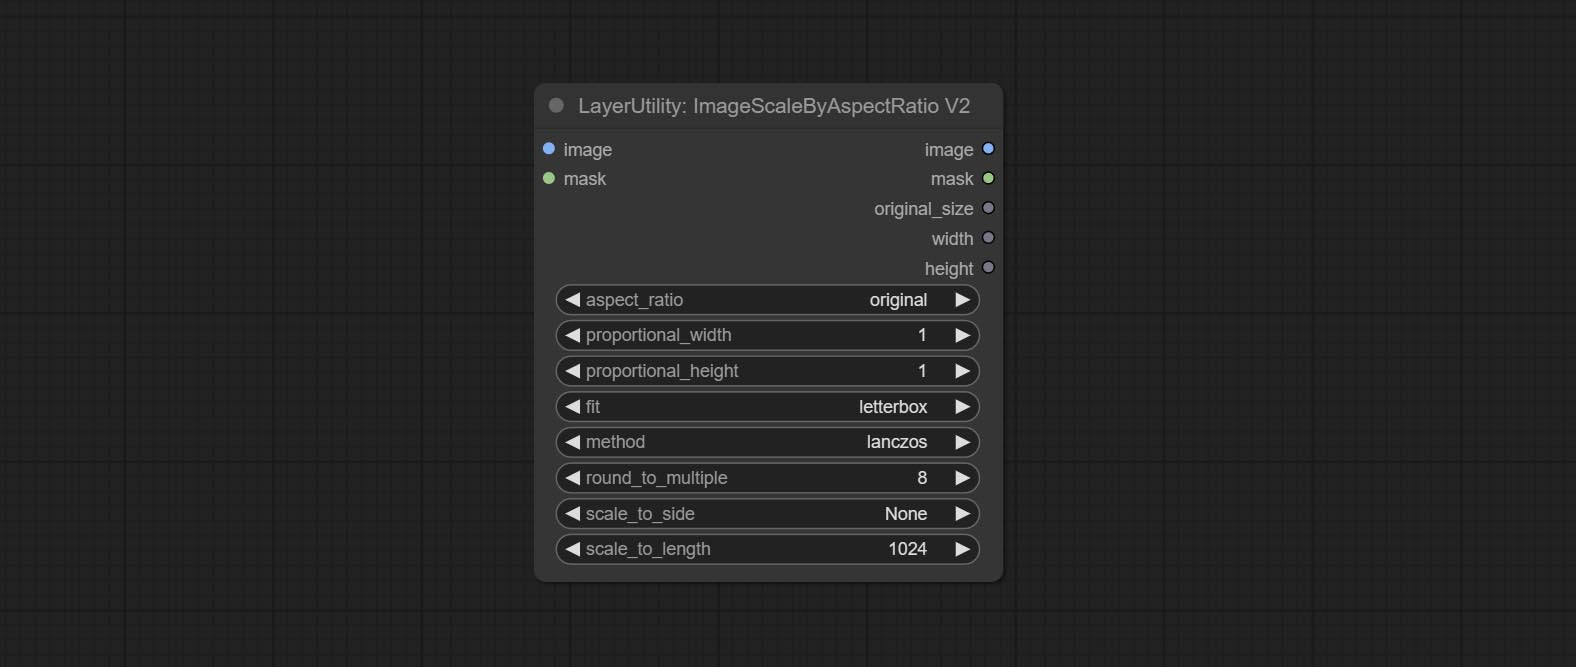
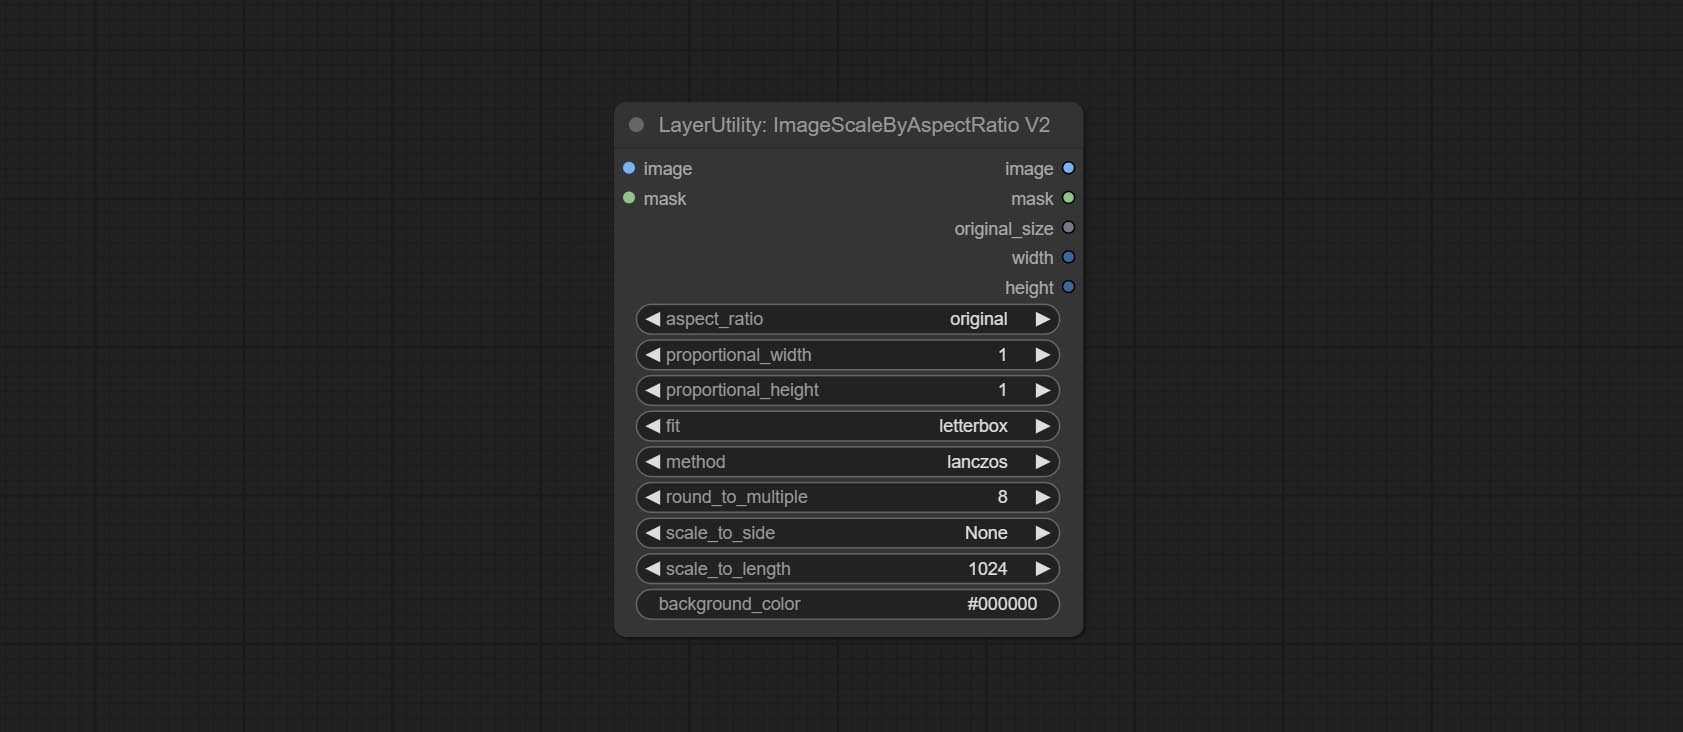
ImageScaleByAspectRatioV2 node add background_color option

Changed region(s): [[0.342, 0.2099, 0.6529, 0.8396], [0.342, 0.1499, 0.6218, 0.1799], [0.342, 0.2099, 0.4042, 0.2999]]

diff --git a/py/image_scale_by_aspect_ratio_v2.py b/py/image_scale_by_aspect_ratio_v2.py
@@ -14,7 +14,7 @@ class ImageScaleByAspectRatioV2:
         ratio_list = ['original', 'custom', '1:1', '3:2', '4:3', '16:9', '2:3', '3:4', '9:16']
         fit_mode = ['letterbox', 'crop', 'fill']
         method_mode = ['lanczos', 'bicubic', 'hamming', 'bilinear', 'box', 'nearest']
-        multiple_list = ['8', '16', '32', '64', 'None']
+        multiple_list = ['8', '16', '32', '64', '128', '256', '512', 'None']
         scale_to_list = ['None', 'longest', 'shortest', 'width', 'height', 'total_pixel(kilo pixel)']
         return {
             "required": {
@@ -26,6 +26,7 @@ class ImageScaleByAspectRatioV2:
                 "round_to_multiple": (multiple_list,),
                 "scale_to_side": (scale_to_list,),  # 是否按长边缩放
                 "scale_to_length": ("INT", {"default": 1024, "min": 4, "max": 999999, "step": 1}),
+                "background_color": ("STRING", {"default": "#000000"}),  # 背景颜色
             },
             "optional": {
                 "image": ("IMAGE",),  #
@@ -40,6 +41,7 @@ class ImageScaleByAspectRatioV2:
 
     def image_scale_by_aspect_ratio(self, aspect_ratio, proportional_width, proportional_height,
                                     fit, method, round_to_multiple, scale_to_side, scale_to_length,
+                                    background_color,
                                     image=None, mask = None,
                                     ):
         orig_images = []
@@ -128,8 +130,8 @@ class ImageScaleByAspectRatioV2:
 
         if round_to_multiple != 'None':
             multiple = int(round_to_multiple)
-            target_width = num_round_to_multiple(target_width, multiple)
-            target_height = num_round_to_multiple(target_height, multiple)
+            target_width = num_round_up_to_multiple(target_width, multiple)
+            target_height = num_round_up_to_multiple(target_height, multiple)
 
         _mask = Image.new('L', size=(target_width, target_height), color='black')
         _image = Image.new('RGB', size=(target_width, target_height), color='black')
@@ -149,7 +151,7 @@ class ImageScaleByAspectRatioV2:
         if len(orig_images) > 0:
             for i in orig_images:
                 _image = tensor2pil(i).convert('RGB')
-                _image = fit_resize_image(_image, target_width, target_height, fit, resize_sampler)
+                _image = fit_resize_image(_image, target_width, target_height, fit, resize_sampler, background_color)
                 ret_images.append(pil2tensor(_image))
         if len(orig_masks) > 0:
             for m in orig_masks:

diff --git a/py/image_scale_by_aspect_ratio.py b/py/image_scale_by_aspect_ratio.py
@@ -14,7 +14,7 @@ class ImageScaleByAspectRatio:
         ratio_list = ['original', 'custom', '1:1', '3:2', '4:3', '16:9', '2:3', '3:4', '9:16']
         fit_mode = ['letterbox', 'crop', 'fill']
         method_mode = ['lanczos', 'bicubic', 'hamming', 'bilinear', 'box', 'nearest']
-        multiple_list = ['8', '16', '32', '64', 'None']
+        multiple_list = ['8', '16', '32', '64', '128', '256', '512', 'None']
 
         return {
             "required": {
@@ -107,8 +107,8 @@ class ImageScaleByAspectRatio:
 
         if round_to_multiple != 'None':
             multiple = int(round_to_multiple)
-            target_width = num_round_to_multiple(target_width, multiple)
-            target_height = num_round_to_multiple(target_height, multiple)
+            target_width = num_round_up_to_multiple(target_width, multiple)
+            target_height = num_round_up_to_multiple(target_height, multiple)
 
         _mask = Image.new('L', size=(target_width, target_height), color='black')
         _image = Image.new('RGB', size=(target_width, target_height), color='black')

diff --git a/py/crop_by_mask.py b/py/crop_by_mask.py
@@ -65,8 +65,8 @@ class CropByMask:
         else:
             (x, y, width, height) = mask_area(_mask)
 
-        width = num_round_to_multiple(width, 8)
-        height = num_round_to_multiple(height, 8)
+        width = num_round_up_to_multiple(width, 8)
+        height = num_round_up_to_multiple(height, 8)
         log(f"{NODE_NAME}: Box detected. x={x},y={y},width={width},height={height}")
         canvas_width, canvas_height = tensor2pil(torch.unsqueeze(image[0], 0)).convert('RGB').size
         x1 = x - left_reserve if x - left_reserve > 0 else 0

diff --git a/py/crop_by_mask_v2.py b/py/crop_by_mask_v2.py
@@ -10,7 +10,7 @@ class CropByMaskV2:
     @classmethod
     def INPUT_TYPES(self):
         detect_mode = ['mask_area', 'min_bounding_rect', 'max_inscribed_rect']
-        multiple_list = ['8', '16', '32', '64', 'None']
+        multiple_list = ['8', '16', '32', '64', '128', '256', '512', 'None']
         return {
             "required": {
                 "image": ("IMAGE", ),  #

diff --git a/README.MD b/README.MD
@@ -80,7 +80,8 @@ When this error has occurred, please check the network environment.
 ## Update
 <font size="4">**If the dependency package error after updating, please reinstall the relevant dependency packages. </font><br />    
 
-* [LUT Apply](#LUT) Add the street parameter.
+* [ImageScaleByAspectRatioV2](#ImageScaleByAspectRatioV2) node add the "background_color" option.
+* [LUT Apply](#LUT) Add the "strength" option.
 * Commit [AutoAdjustV2](#AutoAdjustV2) node, add optional mask input and support for multiple automatic color adjustment modes.
 * Due to the upcoming discontinuation of gemini-pro vision services, [PromptTagger](#PromptTagger) and [PromptEmbellish](#PromptEmbellish) have added the "gemini-1.5-flash" API to continue using it.
 * [Ultra](#Ultra) nodes added the option to run ```VitMatte``` on the CUDA device, resulting in a 5-fold increase in running speed.
@@ -688,7 +689,7 @@ Node options:
 The following changes have been made based on ImageScaleByAspectRatio:
 * scale_to_side: Allow scaling by specified dimensions for long, short, width, height, or total pixels.
 * scale_to_length: The numerical value here serves as the length of the specified edge or the total pixels (kilo pixels) for scale_to_side.
-
+* background_color<sup>4</sup>: The color of the background.
 
 
 ### <a id="table1">QWenImage2Prompt</a>
@@ -740,7 +741,7 @@ Node options:
 * shift_x: Horizontal distance of shift.
 * shift_y: Vertical distance of shift.
 * cyclic: Is the part of displacement that is out of bounds cyclic.
-* background_color: Background color. if cyclic is set to False, the setting here will be used as the background color.
+* background_color<sup>4</sup>: Background color. if cyclic is set to False, the setting here will be used as the background color.
 * border_mask_width: Border mask width.
 * border_mask_blur: Border mask blur.
 * [note](#notes)
@@ -990,7 +991,7 @@ Node options:
 * width: Width of the image. If there is a size_as input, this setting will be ignored.
 * height: Height of the image. If there is a size_as input, this setting will be ignored.
 * text_color: The color of text.
-* background_color: The color of background.
+* background_color<sup>4</sup>: The color of background.
 
 <sup>*</sup>Only limited to input image and mask. forcing the integration of other types of inputs will result in node errors.
 

diff --git a/README_CN.MD b/README_CN.MD
@@ -80,7 +80,8 @@ git clone https://github.com/chflame163/ComfyUI_LayerStyle.git
 ## 更新说明
 <font size="4">**如果本插件更新后出现依赖包错误，请重新安装相关依赖包。
 
-* [LUT Apply](#LUT) 节点增加strenght参数。
+* [ImageScaleByAspectRatioV2](#ImageScaleByAspectRatioV2) 节点增加background_color选项。 
+* [LUT Apply](#LUT) 节点增加strenght选项。
 * 添加 [AutoAdjustV2](#AutoAdjustV2) 节点，增加可选遮罩输入，增加多种自动调色模式支持。
 * 由于gemini-pro-vision即将停止服务， [PromptTagger](#PromptTagger) 和 [PromptEmbellish](#PromptEmbellish) 添加"gemini-1.5-flash" API以继续使用。 
 * [Ultra](#Ultra) 节点增加```VitMatte```方法在CUDA设备运行选项，运行速度提升5倍。
@@ -678,7 +679,7 @@ ImageScaleByAspectRatio的V2升级版
 在ImageScaleByAspectRatio基础上做了如下改变:
 * scale_to_side: 允许按长边、短边、宽度、高度或总像素指定尺寸缩放。
 * scale_to_length: 这里的数值作为scale_to_side指定边的长度, 或者总像素数量(kilo pixels)。
-
+* background_color<sup>4</sup>: 背景色。
 
 
 ### <a id="table1">QWenImage2Prompt</a>
@@ -729,7 +730,7 @@ ImageScaleByAspectRatio的V2升级版
 * shift_x: 位移的横向距离。
 * shift_y: 位移的纵向距离。
 * cyclic: 位移出界的部分是否循环。
-* background_color: 背景颜色。如果cyclic设置为False,将使用这里的设置作为背景颜色。
+* background_color<sup>4</sup>: 背景颜色。如果cyclic设置为False,将使用这里的设置作为背景颜色。
 * border_mask_width: 接缝遮罩宽度。
 * border_mask_blur: 接缝遮罩模糊。
 * [节点注解](#节点注解)
@@ -981,7 +982,7 @@ GradientImage的V2升级版。
 * width: 画面的宽度。如果有size_as输入，此设置将被忽略。
 * height: 画面的高度。如果有size_as输入，此设置将被忽略。
 * text_color: 文字颜色。
-* background_color: 背景颜色。
+* background_color<sup>4</sup>: 背景颜色。
 
 
 <sup>*</sup>仅限输入image和mask, 如果强制接入其他类型输入，将导致节点错误。
